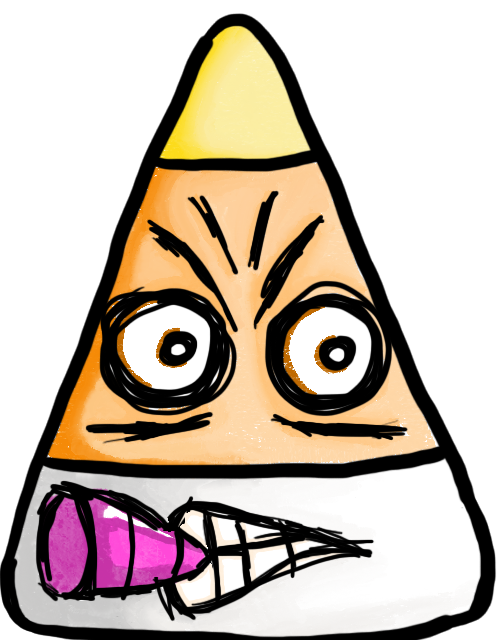
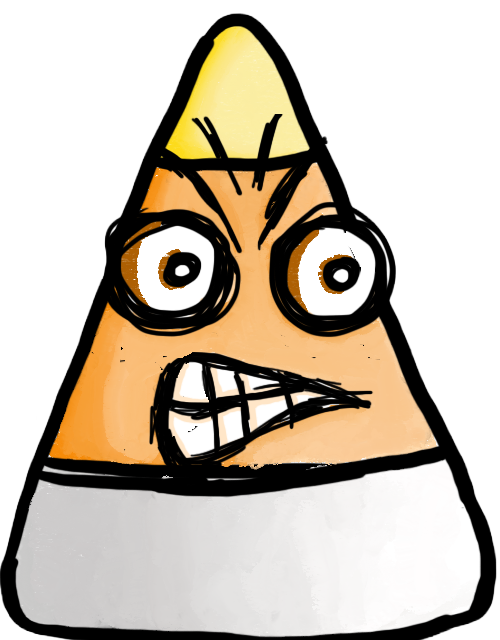
Chocobar enemy sprite added + enemy gun fire, horizontal sprite flipping, game over screen

diff --git a/src/scenes/Play.js b/src/scenes/Play.js
@@ -10,13 +10,18 @@ class Play extends Phaser.Scene {
         this.load.image('background',   'ph_background.png');
         this.load.image('gun',          'player_gun.png');
         this.load.image('playerbullet', 'ph_bullet.png');
-        this.load.image('enemybullet', 'eh_bullet.png');
+        this.load.image('enemybullet',  'eh_bullet.png');
+        this.load.image('chocobar',     'chocobar.png');
+        this.load.image('choco_gun',     'choco_gun.png');
         this.load.image('enemy',        'ph_enemy.png');
         this.load.image('tilesetImage', 'tileset.png');
         this.load.tilemapTiledJSON('tilemapJSON', 'tilemap.json');
     }
     
     create() {
+        enemyBullets = [];
+        enemies = [];
+        playerBullets = [];
         if (game.settings.audioPlaying == true) {
             let backgroundMusic = this.sound.add('sfx_lobby');
             backgroundMusic.loop = true;
@@ -29,9 +34,6 @@ class Play extends Phaser.Scene {
         keyDOWN  = this.input.keyboard.addKey(Phaser.Input.Keyboard.KeyCodes.S);
         keyRIGHT = this.input.keyboard.addKey(Phaser.Input.Keyboard.KeyCodes.D);
         keyESC   = this.input.keyboard.addKey(Phaser.Input.Keyboard.KeyCodes.ESC);
-
-        //Initialize score
-        this.score = 0;
 
         //Set up tilemap
         map = this.add.tilemap('tilemapJSON');
@@ -71,15 +73,17 @@ class Play extends Phaser.Scene {
           spawnPoint.y = Phaser.Math.RND.between(0, map.heightInPixels);
         } while (Phaser.Math.Distance.Between(player.x, player.y, spawnPoint.x, spawnPoint.y) <= minDistFromPlayer);
         
-        var enemy = new ChocoBar(this, spawnPoint.x, spawnPoint.y, 'enemy').setOrigin(0.5, 0.5);
+        var enemy = new ChocoBar(this, spawnPoint.x, spawnPoint.y, 'chocobar').setOrigin(0.5, 0.5);
         enemy.player = player;
+        enemy.gun = new ChocoGun(this, 0, 0, 'choco_gun');
+        enemy.gun.chocoSprite = enemy;
         enemies.push(enemy);
     }
 
     update() {
         this.uiUpdate();
-        if (this.gameOver && Phaser.Input.Keyboard.JustDown(keyR)) {
-            this.scene.restart();
+        if (this.gameOver) {
+            this.scene.start("gameOverScene");
         }
         if (Phaser.Input.Keyboard.JustDown(keyESC)) {
             this.game.sound.stopAll();
@@ -88,6 +92,7 @@ class Play extends Phaser.Scene {
 
         player.update();
         this.hpCounter.text = 'HP: ' + playerHp;
+        if (playerHp == 0) this.gameOver = true;
         playerBullets.forEach(bullet => {
             bullet.update(); })
         enemyBullets.forEach(bullet => {
@@ -97,6 +102,7 @@ class Play extends Phaser.Scene {
             if (enemy.markedForDeath) {
                 array.splice(index, 1);
                 enemy.destroy();
+                enemy.gun.destroy();
                 //console.log(this);
                 this.addScore(enemy.scoreValue);
             }
@@ -122,8 +128,8 @@ class Play extends Phaser.Scene {
     }
 
     addScore(points){
-        this.score += points;
-        this.scoreCounter.text = 'Score: ' + this.score;
+        score += points;
+        this.scoreCounter.text = 'Score: ' + score;
     }
 
     initCanvasAndUI(){
@@ -164,7 +170,7 @@ class Play extends Phaser.Scene {
 
         // With a beyond borders map, UI should be later be constantly updated at a distance away from the player rather than a constant fixed distance.
 
-        this.scoreCounter = this.add.text(this.cameras.main.scrollX, this.cameras.main.scrollY, 'Score: ' + this.score, scoreConfig);
-        this.hpCounter = this.add.text(this.cameras.main.scrollX + 500, this.cameras.main.scrollY, 'HP: ' + this.score, scoreConfig);
+        this.scoreCounter = this.add.text(this.cameras.main.scrollX, this.cameras.main.scrollY, 'Score: ' + score, scoreConfig);
+        this.hpCounter = this.add.text(this.cameras.main.scrollX + 500, this.cameras.main.scrollY, 'HP: ' + score, scoreConfig);
     }
 }

diff --git a/src/scenes/GameOver.js b/src/scenes/GameOver.js
@@ -1,0 +1,69 @@
+class GameOver extends Phaser.Scene {
+    constructor() {
+        super('gameOverScene');
+    }
+
+    preload() {
+        
+    }
+
+    create() {
+        keyR = this.input.keyboard.addKey(Phaser.Input.Keyboard.KeyCodes.R);
+        let textConfig = {
+            fontFamily: 'Georgia',
+            fontSize: '40px',
+            color: '#FFFFFF',
+            align: 'right',
+            padding: {
+                top: 15,
+                bottom: 15,
+                right: 15,
+                left: 15
+            },
+            fixedWidth: 0
+        }
+
+        // check for high score in local storage
+        // uncomment console.log statements if you need to debug local storage
+        if(localStorage.getItem('highscore') != null) {
+            let storedScore = parseInt(localStorage.getItem('highscore'));
+            //console.log(`storedScore: ${storedScore}`);
+            // see if current score is higher than stored score
+            if(score > storedScore) {
+                //console.log(`New high score: ${level}`);
+                localStorage.setItem('highscore', score.toString());
+                highScore = score;
+                newHighScore = true;
+            } else {
+                //console.log('No new high score :/');
+                highScore = parseInt(localStorage.getItem('highscore'));
+                newHighScore = false;
+            }
+        } else {
+            //console.log('No high score stored. Creating new.');
+            highScore = score;
+            localStorage.setItem('highscore', highScore.toString());
+            newHighScore = true;
+        }
+
+        // add GAME OVER text
+        if(newHighScore) {
+            this.add.text(game.config.width/2, game.config.height/2 - borderUISize - borderPadding - 220, 'New High Score!', textConfig).setOrigin(0.5);
+        }
+
+        this.add.text(centerX, centerY + textSpacer, `${score} number of enemies defeated`, textConfig).setOrigin(0.5);
+        this.add.text(centerX, centerY + textSpacer*2,`This browser's best: ${highScore}`, textConfig).setOrigin(0.5);
+        this.add.text(centerX, centerY + textSpacer*3, `Press R to Restart`, textConfig).setOrigin(0.5);
+    }
+
+    update() {
+        // wait for UP input to restart game
+        if (Phaser.Input.Keyboard.JustDown(keyR)) {
+
+            // start next scene
+            score = 0;
+            playerHp = startingHp;
+            this.scene.start('playScene');
+        }
+    }
+}

diff --git a/src/classes/ChocoGun.js b/src/classes/ChocoGun.js
@@ -1,0 +1,63 @@
+class ChocoGun extends Phaser.GameObjects.Sprite {
+    constructor(scene, x, y, texture, frame) {
+        super(scene, x, y, texture, frame);
+        scene.add.existing(this);
+        this.scene = scene;
+        this.scale = 0.1;
+
+        this.fireRate = 250;
+        this.fireCooldown = 0;  
+        this.isFiring = false;
+
+        this.distanceFromChoco = 36; 
+        this.chocoSprite; //Set by Play
+
+        //scene.input.on('pointerdown', this.fire.bind(this));
+    }
+
+    update() {
+        this.aimTowardsPlayer();
+        if(this.fireCooldown > 0){
+            this.fireCooldown--;
+        }
+
+        if (Math.abs(this.x - this.chocoSprite.player.x) < 300 && Math.abs(this.y - this.chocoSprite.player.y)) {
+            this.isFiring = true;
+        } else {
+            this.isFiring = false;
+        }
+
+        if (this.isFiring) {
+            if (this.fireCooldown == 0){
+                this.fire();
+            }
+        }
+    }
+
+    fire() {
+        let bullet = new EnemyBullet(this.scene, this.x, this.y, 'enemybullet').setOrigin(0.5, 0.5);
+        bullet.rotation = this.rotation;
+        enemyBullets.push(bullet);
+        this.fireCooldown = this.fireRate;
+    }
+
+    aimTowardsPlayer() {
+        // Calculate angle between player sprite and cursor position
+        var angle = Phaser.Math.Angle.Between(this.x, this.y, this.chocoSprite.player.x, this.chocoSprite.player.y);
+        if (angle > Math.PI / 2 || angle < -Math.PI / 2){
+            this.flipY = true;
+            this.chocoSprite.flipX = true;
+        } else {
+            this.flipY = false;
+            this.chocoSprite.flipX = false;
+        }
+        
+        this.rotation = angle;
+
+        var targetX = this.chocoSprite.x + Math.cos(angle) * this.distanceFromChoco;
+        var targetY = this.chocoSprite.y + Math.sin(angle) * this.distanceFromChoco;
+
+        this.x = targetX;
+        this.y = targetY;
+    }
+}

diff --git a/src/classes/ChocoBar.js b/src/classes/ChocoBar.js
@@ -2,49 +2,18 @@ class ChocoBar extends Enemy {
     constructor(scene, x, y, texture, frame) {
         super(scene, x, y, texture, frame);
 
-        this.scale = 0.3;
-        this.fireRate = 250;
-        this.fireCooldown = 0;  
-        this.isFiring = false;
-    }
-
-    fire() {
-        let bullet = new EnemyBullet(this.scene, this.x, this.y, 'enemybullet').setOrigin(0.5, 0.5);
-        bullet.rotation = this.rotation;
-        enemyBullets.push(bullet);
-        this.fireCooldown = this.fireRate;
+        this.scale = 0.125;
+        this.hp = 3;
+        this.gun;
     }
 
     update() {
+        if (this.x < this.player.x) this.x += 0.5;
+        else this.x -= 0.5;
+        if (this.y < this.player.y) this.y += 0.5;
+        else this.y -= 0.5;
+
         super.update();
-        this.aimTowardsPlayer();
-        if(this.fireCooldown > 0){
-            this.fireCooldown--;
-        }
-
-        if (Math.abs(this.x - this.player.x) < 300 && Math.abs(this.y - this.player.y)) {
-            console.log("firing")
-            this.isFiring = true;
-        } else {
-            this.isFiring = false;
-        }
-
-        if (this.isFiring) {
-            if (this.fireCooldown == 0){
-                this.fire();
-            }
-        }
-    }
-
-    aimTowardsPlayer() {
-        // Calculate angle between player sprite and cursor position
-        var angle = Phaser.Math.Angle.Between(this.x, this.y, this.player.x, this.player.y);
-        if (angle > Math.PI / 2 || angle < -Math.PI / 2){
-            this.flipY = true;
-        } else {
-            this.flipY = false;
-        }
-        
-        this.rotation = angle;
+        this.gun.update();
     }
 }

diff --git a/src/main.js b/src/main.js
@@ -11,7 +11,7 @@ let config = {
             debug: true,
         }
     },
-    scene: [ Menu, Play ]
+    scene: [ Menu, Play, GameOver ]
 }
 
 let game = new Phaser.Game(config);
@@ -21,16 +21,26 @@ let game = new Phaser.Game(config);
 let borderUISize = game.config.height / 35;
 let borderPadding = borderUISize / 10;
 
+let centerX = game.config.width/2;
+let centerY = game.config.height/2;
+
+const textSpacer = 64;
+
 let PlayButton, Ready;
 
 let player;
-let playerHp = 100;
+let startingHp = 10;
+let playerHp = startingHp;
 let playerBullets = [];
+let highScore = 0;
+let newHighScore = false;
+let score = 0;
+
 let enemyBullets = [];
 let enemies = [];
 
 let manualMoveSpeed = 1;
 
-let keyUP, keyLEFT, keyDOWN, keyRIGHT, keyESC;
+let keyUP, keyLEFT, keyDOWN, keyRIGHT, keyESC, keyR;
 
 let map = null;

diff --git a/index.html b/index.html
@@ -16,12 +16,14 @@
     <script src="./lib/phaser.js"></script>
     <script src="./src/scenes/Menu.js"></script> 
     <script src="./src/scenes/Play.js"></script>
+    <script src="./src/scenes/GameOver.js"></script>
     <script src="./src/classes/Player.js"></script>
     <script src="./src/classes/Gun.js"></script>
     <script src="./src/classes/PlayerBullet.js"></script>
     <script src="./src/classes/EnemyBullet.js"></script>
     <script src="./src/classes/Enemy.js"></script>
     <script src="./src/classes/ChocoBar.js"></script>
+    <script src="./src/classes/ChocoGun.js"></script>
     <script src="./src/main.js"></script>
 </body>
 </html>

diff --git a/src/scenes/Menu.js b/src/scenes/Menu.js
@@ -28,7 +28,7 @@ class Menu extends Phaser.Scene {
         menuConfig.backgroundColor = '#00FF00';
         const PlayButton = this.add.text(game.config.width/2, game.config.height/2 + borderUISize * 6, 'PLAY', menuConfig).setOrigin(0.5).setInteractive();
         //-------------------------------------------
-        Ready = true; //CHANGE TO REENABLE THE MENU
+        Ready = false; //CHANGE TO REENABLE THE MENU
         //-------------------------------------------
         PlayButton.on('pointerdown', function (pointer)
         {

diff --git a/src/classes/Gun.js b/src/classes/Gun.js
@@ -38,8 +38,10 @@ class Gun extends Phaser.GameObjects.Sprite {
         var angle = Phaser.Math.Angle.Between(this.playerSprite.x, this.playerSprite.y, pointer.x + this.scene.cameras.main.scrollX, pointer.y + this.scene.cameras.main.scrollY);
         if (angle > Math.PI / 2 || angle < -Math.PI / 2){
             this.flipY = true;
+            this.playerSprite.flipX = true;
         } else {
             this.flipY = false;
+            this.playerSprite.flipX = false;
         }
         
         this.rotation = angle;

diff --git a/src/classes/Enemy.js b/src/classes/Enemy.js
@@ -19,11 +19,6 @@ class Enemy extends Phaser.GameObjects.Sprite {
 
     update() {
         
-        if (this.x < this.player.x) this.x += 0.5;
-        else this.x -= 0.5;
-        if (this.y < this.player.y) this.y += 0.5;
-        else this.y -= 0.5;
-        
         playerBullets.forEach(bullet => {
             this.scene.physics.overlap(this, bullet, (enemy, collidedBullet) => {
                 collidedBullet.destroy();
